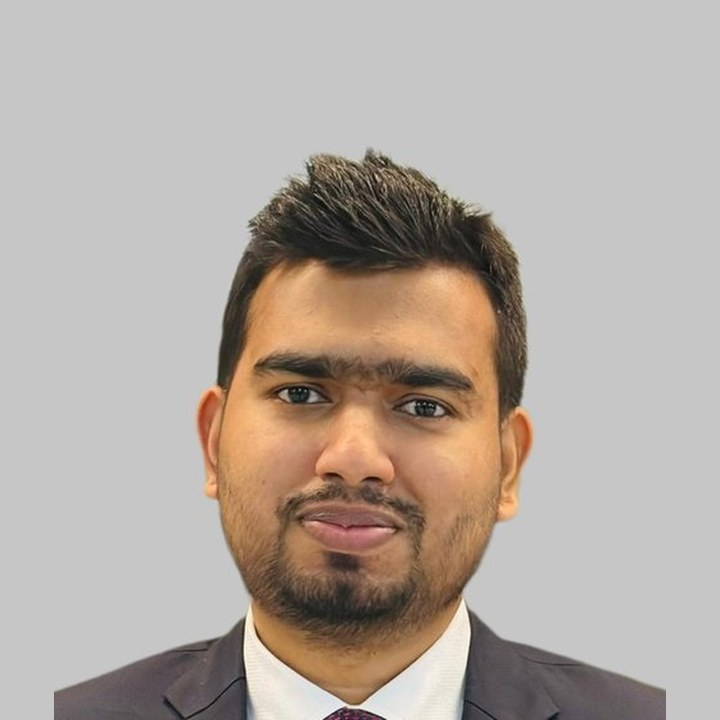
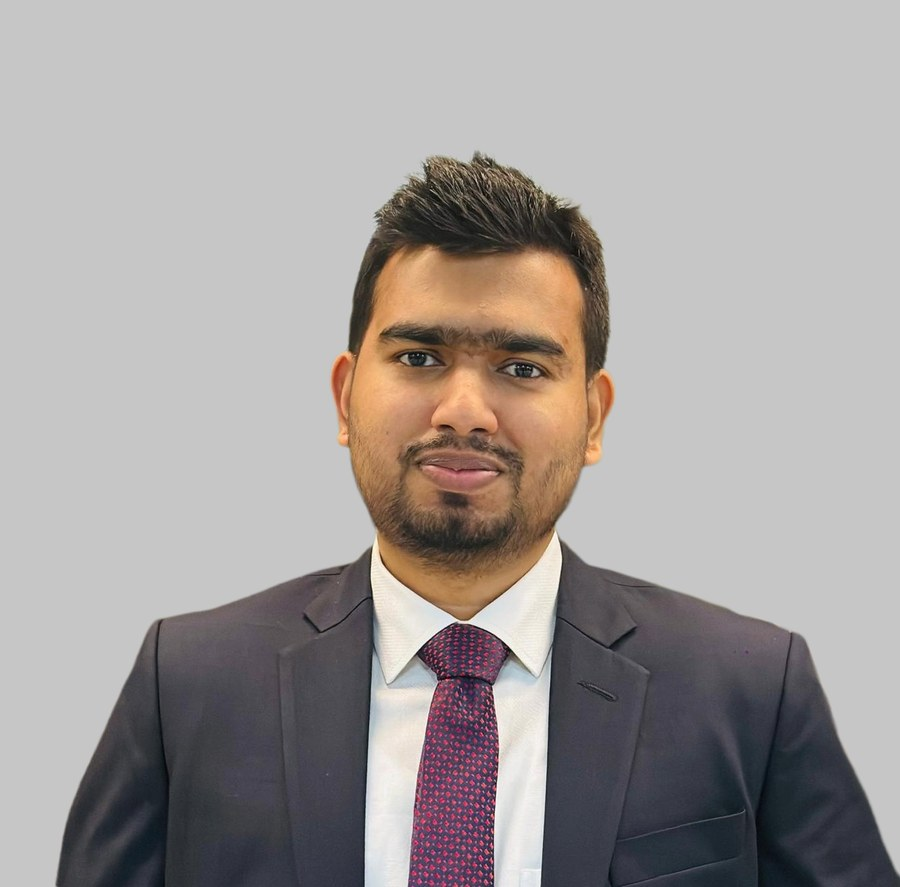
Home: new full portrait, shown uncropped in a rounded frame
Claude-Session: https://claude.ai/code/session_01NfmEohgCj7LwoqzhX9UuQZ

diff --git a/index.html b/index.html
@@ -53,8 +53,8 @@ p{margin:0 0 1em;max-width:68ch}
 .btn.primary{background:var(--ink);color:#fff}
 .btn.primary:hover{background:var(--teal-deep);border-color:var(--teal-deep);color:#fff}
 .btn:hover{border-color:var(--teal-deep);color:var(--teal-deep)}
-.portrait{position:relative;justify-self:center;width:min(300px,70vw);aspect-ratio:1}
-.portrait img{width:100%;height:100%;object-fit:cover;border-radius:50%;border:6px solid var(--surface);box-shadow:0 0 0 2px var(--line)}
+.portrait{position:relative;justify-self:center;width:min(340px,80vw)}
+.portrait img{display:block;width:100%;height:auto;border-radius:22px;border:6px solid var(--surface);box-shadow:0 0 0 2px var(--line)}
 .route{display:block;width:100%;height:auto;margin-top:34px}
 .route .trail{fill:none;stroke:url(#rg);stroke-width:5;stroke-linecap:round}
 .route .future{fill:none;stroke:var(--amber);stroke-width:4;stroke-linecap:round;stroke-dasharray:2 12}
@@ -68,7 +68,7 @@ p{margin:0 0 1em;max-width:68ch}
 }
 @keyframes draw{to{stroke-dashoffset:0}}
 @keyframes show{to{opacity:1}}
-@media (max-width:860px){.hero .wrap:not(.routewrap){grid-template-columns:1fr}.portrait{grid-row:1;width:160px;justify-self:start}.hero{padding-top:28px}}
+@media (max-width:860px){.hero .wrap:not(.routewrap){grid-template-columns:1fr}.portrait{grid-row:1;width:200px;justify-self:start}.hero{padding-top:28px}}
 .route-mobile{display:none}
 
 .steps{list-style:none;margin:0;padding:0 0 0 22px;border-left:4px solid;border-image:linear-gradient(var(--teal),var(--amber)) 1}
@@ -191,7 +191,7 @@ section.block{padding:84px 0;scroll-margin-top:64px}
         <a class="btn" data-link="linkedin" href="#contact">LinkedIn</a>
       </div>
     </div>
-    <div class="portrait"><img src="photo-portrait.jpg" alt="Portrait of Mohd Imtiaz Karim" width="720" height="720"></div>
+    <div class="portrait"><img src="photo-portrait.jpg" alt="Portrait of Mohd Imtiaz Karim" width="900" height="887"></div>
   </div>
 
   <div class="wrap routewrap">
